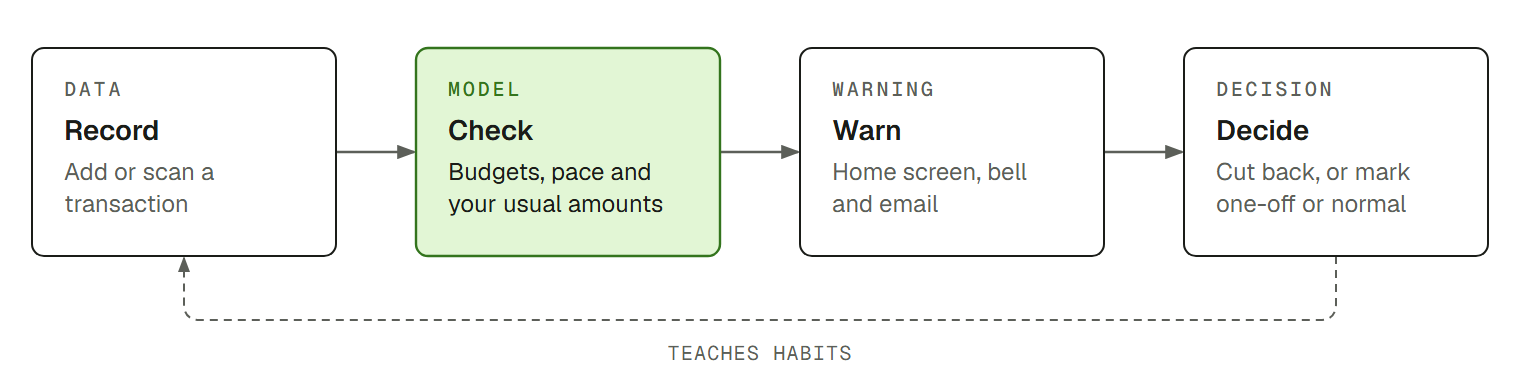
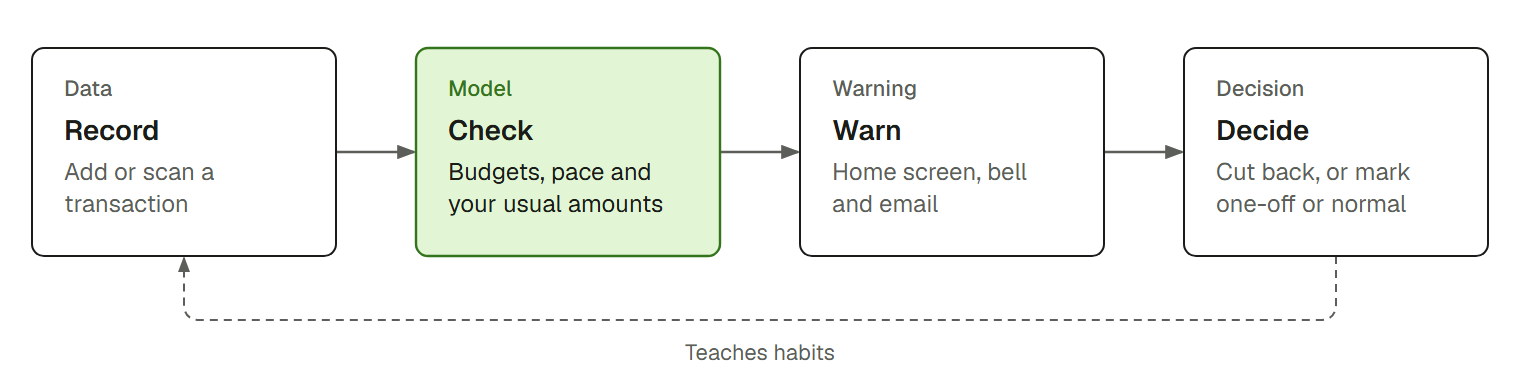
feat(help): rebuild the PRD and TRD viewer
Add a side rail from 1024px that marks the current section and switches
between the documents. Below that, Contents opens in a panel. The bar
now names the document and lines up with the rail and the sheet.

Move Contents out of the sheet so plain-text copies no longer include
it. Add a main landmark and skip link, cap prose width, and add print
break rules. Replace stock neutral colours with app tokens, and set
diagram labels in sentence case without mono or tracking.

Make focus rings solid and instant across the app.

diff --git a/frontend/src/components/document-page.tsx b/frontend/src/components/document-page.tsx
@@ -1,10 +1,14 @@
-// The Help documents (PRD and TRD): a paper sheet like the print report, a contents list, and a copy button for the
-// course template in Word. Opens outside the app shell, always on white, so a manual select-all stays clean too.
-import { useEffect, useRef, type ReactNode } from 'react'
-import { Link } from 'react-router-dom'
-import { ArrowLeft, ClipboardCopy } from 'lucide-react'
+// The Help documents (PRD and TRD) in a viewer: a side section to move around, a paper sheet like the print report, and
+// a copy button for the course template in Word. Opens outside the app shell. The sheet is always white, so a manual
+// select-all stays clean too.
+import { useEffect, useRef, useState, type MouseEvent, type ReactNode } from 'react'
+import { flushSync } from 'react-dom'
+import { Link, NavLink } from 'react-router-dom'
+import { ArrowLeft, ClipboardCopy, TableOfContents } from 'lucide-react'
 import { toast } from 'sonner'
+import { ResponsivePanel } from '@/components/responsive-panel'
 import { Button } from '@/components/ui/button'
+import { Card } from '@/components/ui/card'
 import { useOrigin } from '@/hooks/use-origin'
 import { cn } from '@/lib/utils'
 import { version } from '../../package.json'
@@ -12,21 +16,32 @@ import { version } from '../../package.json'
 const UPDATED = 'November 5, 2026'
 const WORD_IMAGE_WIDTH = 600 // fits the text width of a Letter or A4 page with 1-inch margins
 
+const DOCUMENTS = [
+  { to: '/help/prd', short: 'PRD', name: 'Product Requirement Document' },
+  { to: '/help/trd', short: 'TRD', name: 'Technical Requirement Document' },
+]
+
+// The bar and the page share these columns, so Back sits over the side section and the rest over the sheet.
+const FRAME = 'mx-auto max-w-[calc(210mm+2rem)] lg:grid lg:max-w-[calc(16rem+2rem+210mm+2rem)] lg:grid-cols-[16rem_minmax(0,1fr)] lg:gap-8 lg:px-4'
+
+type Section = { id: string; title: string; body: ReactNode }
+
 const SHEET = [
-  'leading-[1.55]',
-  '[&_h2]:mt-10 [&_h2]:mb-3 [&_h2]:scroll-mt-20 [&_h2]:text-xl [&_h2]:leading-tight [&_h2]:font-semibold',
-  '[&_h3]:mt-6 [&_h3]:mb-2 [&_h3]:leading-snug [&_h3]:font-semibold',
+  'leading-[1.55] text-pretty',
+  '[&_h2]:mt-10 [&_h2]:mb-3 [&_h2]:scroll-mt-20 [&_h2]:text-xl [&_h2]:leading-tight [&_h2]:font-semibold [&_h2]:break-after-avoid',
+  '[&_h3]:mt-6 [&_h3]:mb-2 [&_h3]:leading-snug [&_h3]:font-semibold [&_h3]:break-after-avoid',
   '[&_section_p]:mt-3 [&_section_ul]:mt-3 [&_section_ul]:list-disc [&_section_ul]:pl-5 [&_section_ol]:mt-3 [&_section_ol]:list-decimal [&_section_ol]:pl-5 [&_section_li]:mt-1',
+  '[&_section_p]:max-w-[65ch] [&_section_ul]:max-w-[65ch] [&_section_ol]:max-w-[65ch]',
+  '[&_figure]:break-inside-avoid [&_tr]:break-inside-avoid',
   '[&_table]:w-full [&_table]:border-collapse [&_table]:text-sm [&_table]:leading-normal',
-  '[&_td]:border [&_td]:border-neutral-300 [&_td]:px-2 [&_td]:py-1.5 [&_td]:text-left [&_td]:align-top',
-  '[&_th]:border [&_th]:border-neutral-300 [&_th]:bg-neutral-100 [&_th]:px-2 [&_th]:py-1.5 [&_th]:text-left [&_th]:align-top [&_th]:font-semibold',
+  '[&_td]:border [&_td]:px-2 [&_td]:py-1.5 [&_td]:text-left [&_td]:align-top',
+  '[&_th]:border [&_th]:bg-muted [&_th]:px-2 [&_th]:py-1.5 [&_th]:text-left [&_th]:align-top [&_th]:font-semibold',
   '[&_code]:font-mono [&_code]:text-[0.875em] [&_code]:[overflow-wrap:anywhere]',
 ].join(' ')
 
 /** The document as bare HTML, so Word applies the template's own fonts and sizes instead of this page's. */
 function wordHtml(article: HTMLElement) {
   const copy = article.cloneNode(true) as HTMLElement
-  copy.querySelector('nav')?.remove()
   copy.querySelectorAll('[class]').forEach((el) => el.removeAttribute('class'))
   copy.querySelectorAll('table').forEach((table) => table.setAttribute('border', '1'))
   // Word fetches each image itself, so it needs the full address, and these PNGs are 2x, so it needs the size too.
@@ -52,13 +67,79 @@ function copyHtml(html: string, text: string) {
   return copied
 }
 
-export function DocumentPage({ title, sections }: {
-  title: string
-  sections: { id: string; title: string; body: ReactNode }[]
+/**
+ * The section being read: the last heading past the line, or the last section once the page can't scroll further.
+ * ponytail: at the very end, picking the second-last section still marks the last. Follow the hash there if it matters.
+ */
+function useCurrentSection(sections: Section[]) {
+  const [current, setCurrent] = useState(sections[0].id)
+  useEffect(() => {
+    const update = () => {
+      const atEnd = innerHeight + scrollY >= document.documentElement.scrollHeight - 1
+      const passed = sections.findLast((s) => document.getElementById(s.id)!.getBoundingClientRect().top <= 120) // the line just under the bar
+      setCurrent((atEnd ? sections.at(-1) : passed)?.id ?? sections[0].id)
+    }
+    update()
+    addEventListener('scroll', update, { passive: true })
+    return () => removeEventListener('scroll', update)
+  }, [sections])
+  return current
+}
+
+/** The side section: which document, then where in it. A rail from lg, a panel below. */
+function DocumentNav({ sections, current, origin, onPick }: {
+  sections: Section[]
+  current: string
+  origin: ReturnType<typeof useOrigin>
+  onPick?: (e: MouseEvent, id: string) => void // set in the panel
 }) {
+  return (
+    <div className="grid gap-3 text-sm">
+      <nav aria-label="Documents" className="grid grid-cols-2 gap-1 rounded-lg bg-muted p-1 text-center">
+        {DOCUMENTS.map((d) => (
+          // In the panel, replace the panel's own history entry so Back doesn't stop on it.
+          <NavLink key={d.to} to={d.to} state={origin} replace={!!onPick} className="rounded-md py-1 hover:bg-card aria-[current=page]:bg-card aria-[current=page]:font-medium pointer-coarse:py-3">
+            {d.short}<span className="sr-only">, {d.name}</span>
+          </NavLink>
+        ))}
+      </nav>
+      <nav aria-label="Contents" className="grid gap-1">
+        {!onPick && <p className="px-2 font-medium">Contents</p>}
+        <ol>
+          {sections.map((s, i) => (
+            <li key={s.id}>
+              <a
+                href={`#${s.id}`}
+                aria-current={s.id === current ? 'location' : undefined}
+                onClick={onPick && ((e) => onPick(e, s.id))}
+                // Colour only: a heavier weight would wrap the longer titles and shift the list as you read.
+                className="flex gap-2 rounded-md px-2 py-1 hover:bg-muted aria-[current=location]:bg-secondary aria-[current=location]:text-secondary-foreground pointer-coarse:py-3"
+              >
+                <span className="w-5 shrink-0 text-right text-muted-foreground tabular-nums">{i + 1}.</span>
+                {s.title}
+              </a>
+            </li>
+          ))}
+        </ol>
+      </nav>
+    </div>
+  )
+}
+
+export function DocumentPage({ title, sections }: { title: string; sections: Section[] }) {
   const article = useRef<HTMLElement>(null)
   useEffect(() => { document.title = `${title} | AntTipid` }, [title])
-  const from = useOrigin()
+  const origin = useOrigin()
+  const current = useCurrentSection(sections)
+
+  const [panelOpen, setPanelOpen] = useState(false)
+  // A pick replaces the panel's history entry, then jumps once the panel's scroll lock has let go of the page.
+  function pick(e: MouseEvent, id: string) {
+    e.preventDefault()
+    location.replace(`#${id}`)
+    flushSync(() => setPanelOpen(false))
+    document.getElementById(id)?.scrollIntoView()
+  }
 
   function copy() {
     const el = article.current
@@ -68,44 +149,53 @@ export function DocumentPage({ title, sections }: {
   }
 
   return (
-    <div className="min-h-svh bg-neutral-100 print:bg-white">
-      <div className="sticky top-0 z-10 bg-neutral-100 print:hidden">
-        <div className="mx-auto flex max-w-[210mm] items-center justify-between gap-3 px-4 py-2 sm:px-0">
-          <Button variant="outline" nativeButton={false} render={<Link to={from ?? '/'} />}><ArrowLeft /> Back to app</Button>
-          <Button onClick={copy}><ClipboardCopy /> Copy for Word</Button>
+    <div className="min-h-svh bg-background print:bg-transparent">
+      <a href={`#${sections[0].id}`} className="sr-only focus:not-sr-only focus:fixed focus:top-2 focus:left-2 focus:z-50 focus:rounded-md focus:bg-background focus:p-2">Skip to content</a>
+      <div className="sticky top-0 z-10 bg-background print:hidden">
+        <div className={cn(FRAME, 'flex items-center gap-2 px-4 py-2')}>
+          <div className="flex gap-2">
+            <Button variant="outline" nativeButton={false} render={<Link to={origin.from ?? '/'} />}><ArrowLeft /> Back to app</Button>
+            <Button variant="outline" className="lg:hidden" onClick={() => setPanelOpen(true)}><TableOfContents /><span className="max-sm:sr-only">Contents</span></Button>
+          </div>
+          <div className="flex min-w-0 flex-1 items-center gap-3">
+            <p className="hidden truncate text-sm font-medium sm:block">{title}</p>
+            <Button className="ml-auto" onClick={copy}><ClipboardCopy /> <span>Copy<span className="max-[359px]:sr-only"> for Word</span></span></Button>
+          </div>
         </div>
       </div>
 
-      <div className="sm:px-4 sm:pb-4 print:p-0">
-        <article ref={article} className={cn(SHEET, 'relative mx-auto max-w-[210mm] bg-white p-4 text-black sm:p-10 sm:shadow print:max-w-none print:p-0 print:shadow-none')}>
-          <header className="border-b border-neutral-300 pb-4">
-            <p className="font-semibold">AntTipid</p>
-            <h1 className="mt-1 text-2xl leading-tight font-semibold sm:text-3xl">{title}</h1>
-            <p className="mt-2 text-sm text-neutral-600">
-              Version {version}. Prepared by John Ansley Rocel for MIT 202, Advanced Organization of Databases. Updated {UPDATED}.
-            </p>
-          </header>
+      <div className={FRAME}>
+        <aside className="hidden lg:block print:hidden">
+          <Card size="sm" className="sticky top-13 max-h-[calc(100svh-4rem)] overflow-y-auto px-2">
+            <DocumentNav sections={sections} current={current} origin={origin} />
+          </Card>
+        </aside>
 
-          {/* Wide screens have room beside the sheet, where it stays in view. Narrower: above the first section. */}
-          <nav aria-label="Contents" className="mt-6 border-b border-neutral-300 pb-4 print:hidden min-[1400px]:absolute min-[1400px]:top-0 min-[1400px]:right-full min-[1400px]:mt-0 min-[1400px]:mr-8 min-[1400px]:h-full min-[1400px]:w-60 min-[1400px]:border-0 min-[1400px]:pb-0">
-            <div className="min-[1400px]:sticky min-[1400px]:top-16">
-              <p className="font-semibold">Contents</p>
-              <ol className="mt-2 list-decimal pl-5 text-sm">
-                {sections.map((s) => (
-                  <li key={s.id} className="mt-1"><a href={`#${s.id}`} className="underline underline-offset-4 hover:text-primary">{s.title}</a></li>
-                ))}
-              </ol>
-            </div>
-          </nav>
+        <main className="min-w-0 sm:px-4 sm:pb-4 lg:px-0 print:p-0">
+          <article ref={article} className={cn(SHEET, 'mx-auto max-w-[210mm] bg-card p-4 text-foreground sm:p-10 sm:shadow print:max-w-none print:p-0 print:shadow-none')}>
+            <header className="border-b pb-4">
+              <p className="font-semibold">AntTipid</p>
+              <h1 className="mt-1 text-2xl leading-tight font-semibold sm:text-3xl">{title}</h1>
+              <p className="mt-2 text-sm text-muted-foreground">
+                Version {version}. Prepared by John Ansley Rocel for MIT 202, Advanced Organization of Databases. Updated {UPDATED}.
+              </p>
+            </header>
 
-          {sections.map((s, i) => (
-            <section key={s.id}>
-              <h2 id={s.id}>{i + 1}. {s.title}</h2>
-              {s.body}
-            </section>
-          ))}
-        </article>
+            {sections.map((s, i) => (
+              <section key={s.id}>
+                <h2 id={s.id}>{i + 1}. {s.title}</h2>
+                {s.body}
+              </section>
+            ))}
+          </article>
+        </main>
       </div>
+
+      {panelOpen && (
+        <ResponsivePanel title="Contents" description={title} onClose={() => setPanelOpen(false)}>
+          <DocumentNav sections={sections} current={current} origin={origin} onPick={pick} />
+        </ResponsivePanel>
+      )}
     </div>
   )
 }
@@ -140,10 +230,10 @@ export function Figure({ n, name, width, height, alt, caption }: {
 }) {
   return (
     <figure className="mt-4">
-      <div className="overflow-x-auto">
+      <div tabIndex={0} role="region" aria-label={`Figure ${n}`} className="overflow-x-auto">
         <img src={`/help/${name}.png`} width={width} height={height} alt={alt} className="h-auto w-full min-w-[36rem] print:min-w-0" />
       </div>
-      <figcaption className="mt-2 text-sm text-neutral-600">Figure {n}. {caption}</figcaption>
+      <figcaption className="mt-2 text-sm text-muted-foreground">Figure {n}. {caption}</figcaption>
     </figure>
   )
 }

diff --git a/frontend/src/components/ui/button.tsx b/frontend/src/components/ui/button.tsx
@@ -3,7 +3,7 @@ import { cva, type VariantProps } from "class-variance-authority"
 import { cn } from "cn"
 
 const buttonVariants = cva(
-  "group/button inline-flex shrink-0 items-center justify-center rounded-lg border border-transparent text-sm font-medium whitespace-nowrap transition-all outline-none select-none focus-visible:border-ring focus-visible:ring-3 focus-visible:ring-ring/50 disabled:pointer-events-none disabled:opacity-50 aria-invalid:border-destructive aria-invalid:ring-3 aria-invalid:ring-destructive/20 dark:aria-invalid:border-destructive/50 dark:aria-invalid:ring-destructive/40 [&_svg]:pointer-events-none [&_svg]:shrink-0 [&_svg:not([class*='size-'])]:size-4",
+  "group/button inline-flex shrink-0 items-center justify-center rounded-lg border border-transparent text-sm font-medium whitespace-nowrap transition-[background-color,color] outline-none select-none focus-visible:border-ring focus-visible:ring-3 focus-visible:ring-ring/50 disabled:pointer-events-none disabled:opacity-50 aria-invalid:border-destructive aria-invalid:ring-3 aria-invalid:ring-destructive/20 dark:aria-invalid:border-destructive/50 dark:aria-invalid:ring-destructive/40 [&_svg]:pointer-events-none [&_svg]:shrink-0 [&_svg:not([class*='size-'])]:size-4",
   {
     variants: {
       variant: {

diff --git a/frontend/src/hooks/use-origin.ts b/frontend/src/hooks/use-origin.ts
@@ -3,18 +3,18 @@ import { useLocation } from 'react-router-dom'
 
 /**
  * For a page outside the app shell that a screen opens with state={{ from: pathname + search }}.
- * Returns that screen's address, or undefined when opened directly. Read once on arrival, because a Contents click
+ * `from` is that screen's address, undefined when opened directly. Read once on arrival, because a Contents click
  * starts a history entry with no state. Routes keep the window's scroll, so the page opens at the top and puts the
- * screen's scroll back on the way out.
+ * screen's scroll back on the way out. Passing the whole result as state hands the origin to a sibling page.
  * ponytail: Privacy's empty Suspense fallback collapses the page on first open, so that one return lands at the top.
  * Give the fallback height if it matters.
  */
 export function useOrigin() {
   const { state } = useLocation()
-  const [origin] = useState(() => ({ from: state?.from as string | undefined, scroll: window.scrollY }))
+  const [origin] = useState<{ from?: string; scroll: number }>(() => ({ scroll: window.scrollY, ...state }))
   useLayoutEffect(() => {
     window.scrollTo(0, 0)
     return () => window.scrollTo(0, origin.scroll)
   }, [origin])
-  return origin.from
+  return origin
 }

diff --git a/frontend/src/components/legal-page.tsx b/frontend/src/components/legal-page.tsx
@@ -41,7 +41,7 @@ export function LegalPage({ title, path, updated, intro, children }: {
     }
   }, [path])
   const { user } = useApp()
-  const from = useOrigin()
+  const { from } = useOrigin()
   return (
     <main className="mx-auto grid w-full max-w-2xl gap-8 px-4 py-8 sm:gap-10 sm:px-6 sm:py-10 md:py-16">
       <Link to="/sign-in" aria-label={user ? 'AntTipid home' : 'AntTipid sign in'} className="w-fit"><LogoWithTagline height={37} small /></Link>

diff --git a/frontend/src/index.css b/frontend/src/index.css
@@ -142,7 +142,7 @@
 
 @layer base {
   * {
-    @apply border-border outline-ring/50;
+    @apply border-border outline-ring;
     /* Thin bars on the page and every scrolling panel; scrollbar-width doesn't inherit, so it's set on each element. */
     scrollbar-width: thin;
     }
